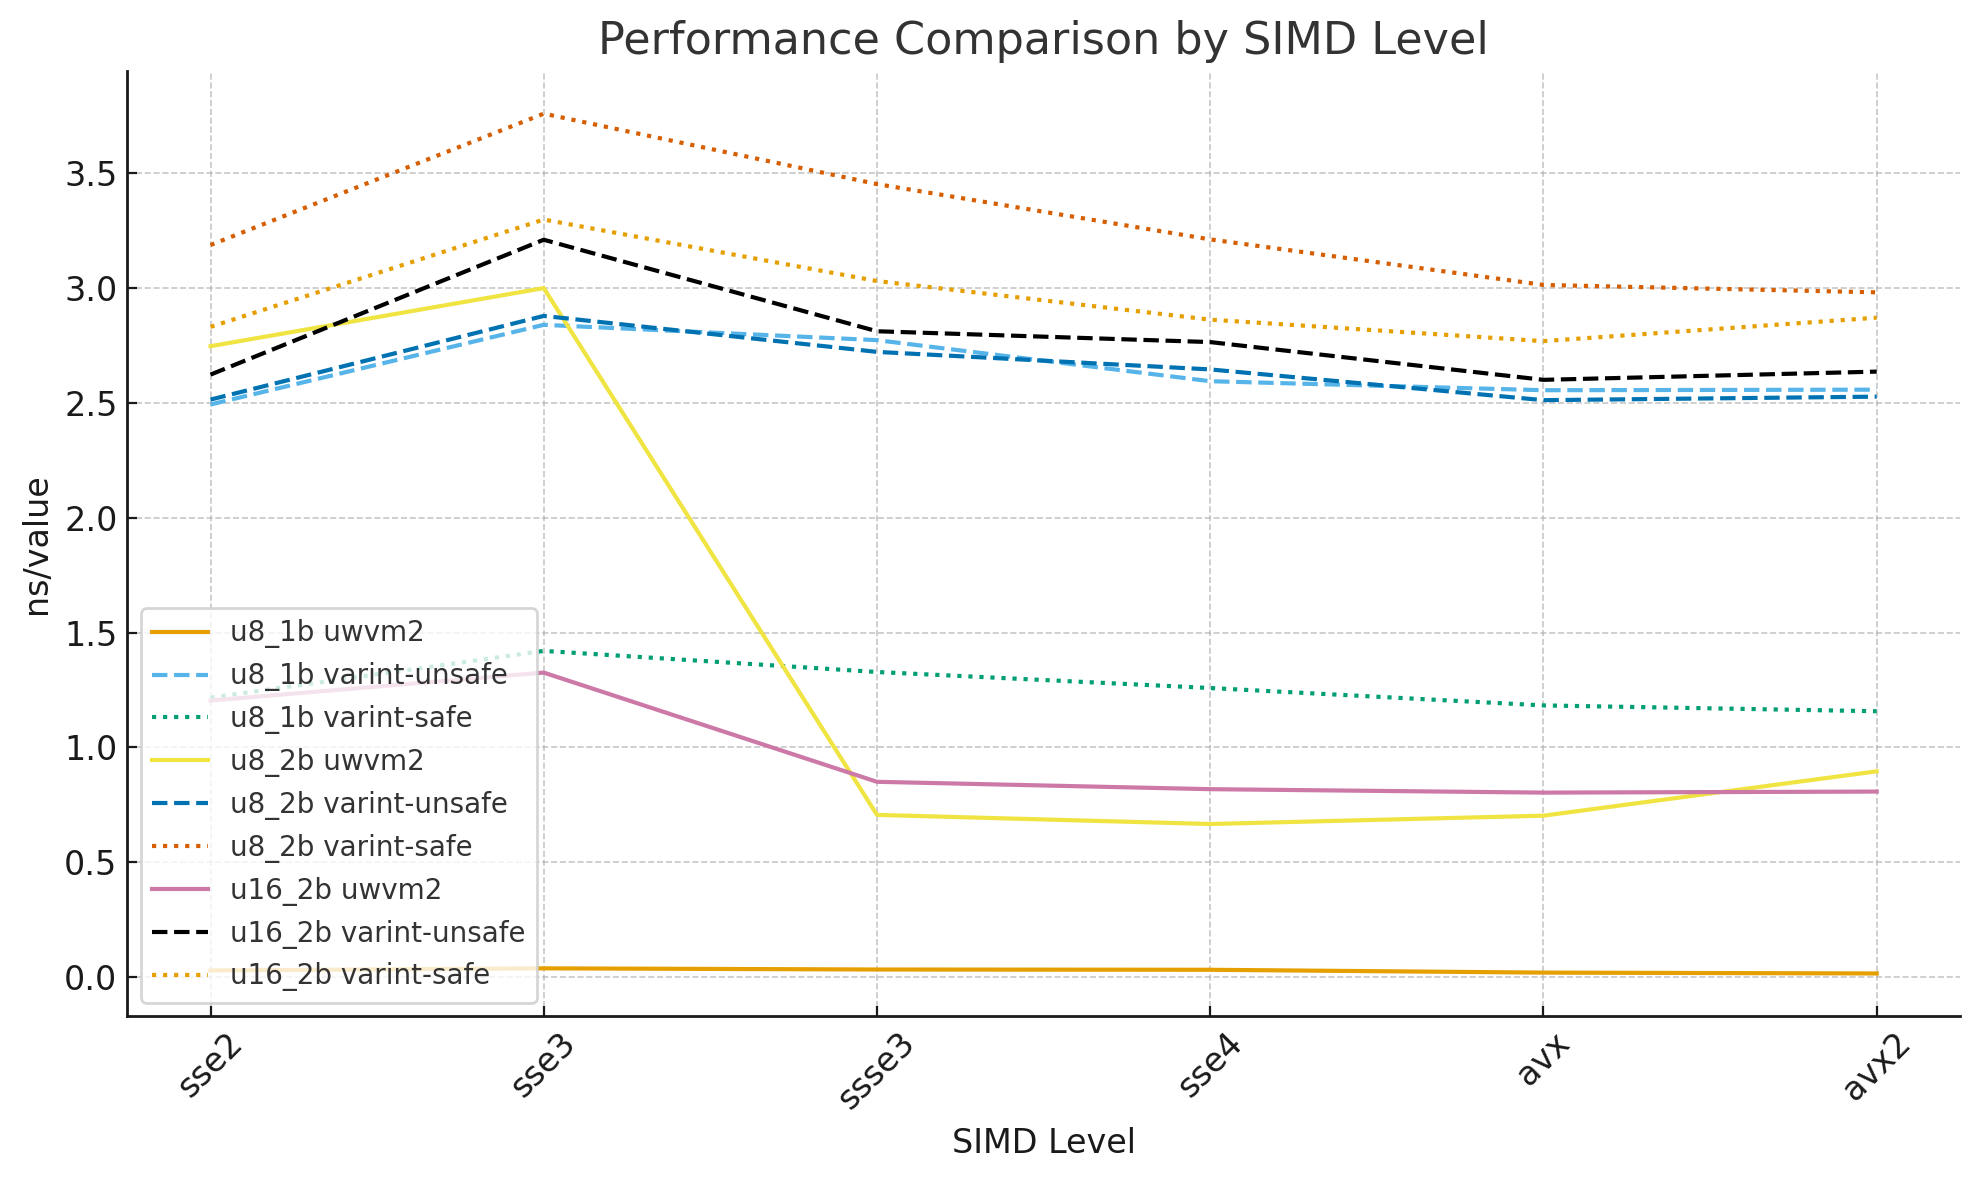
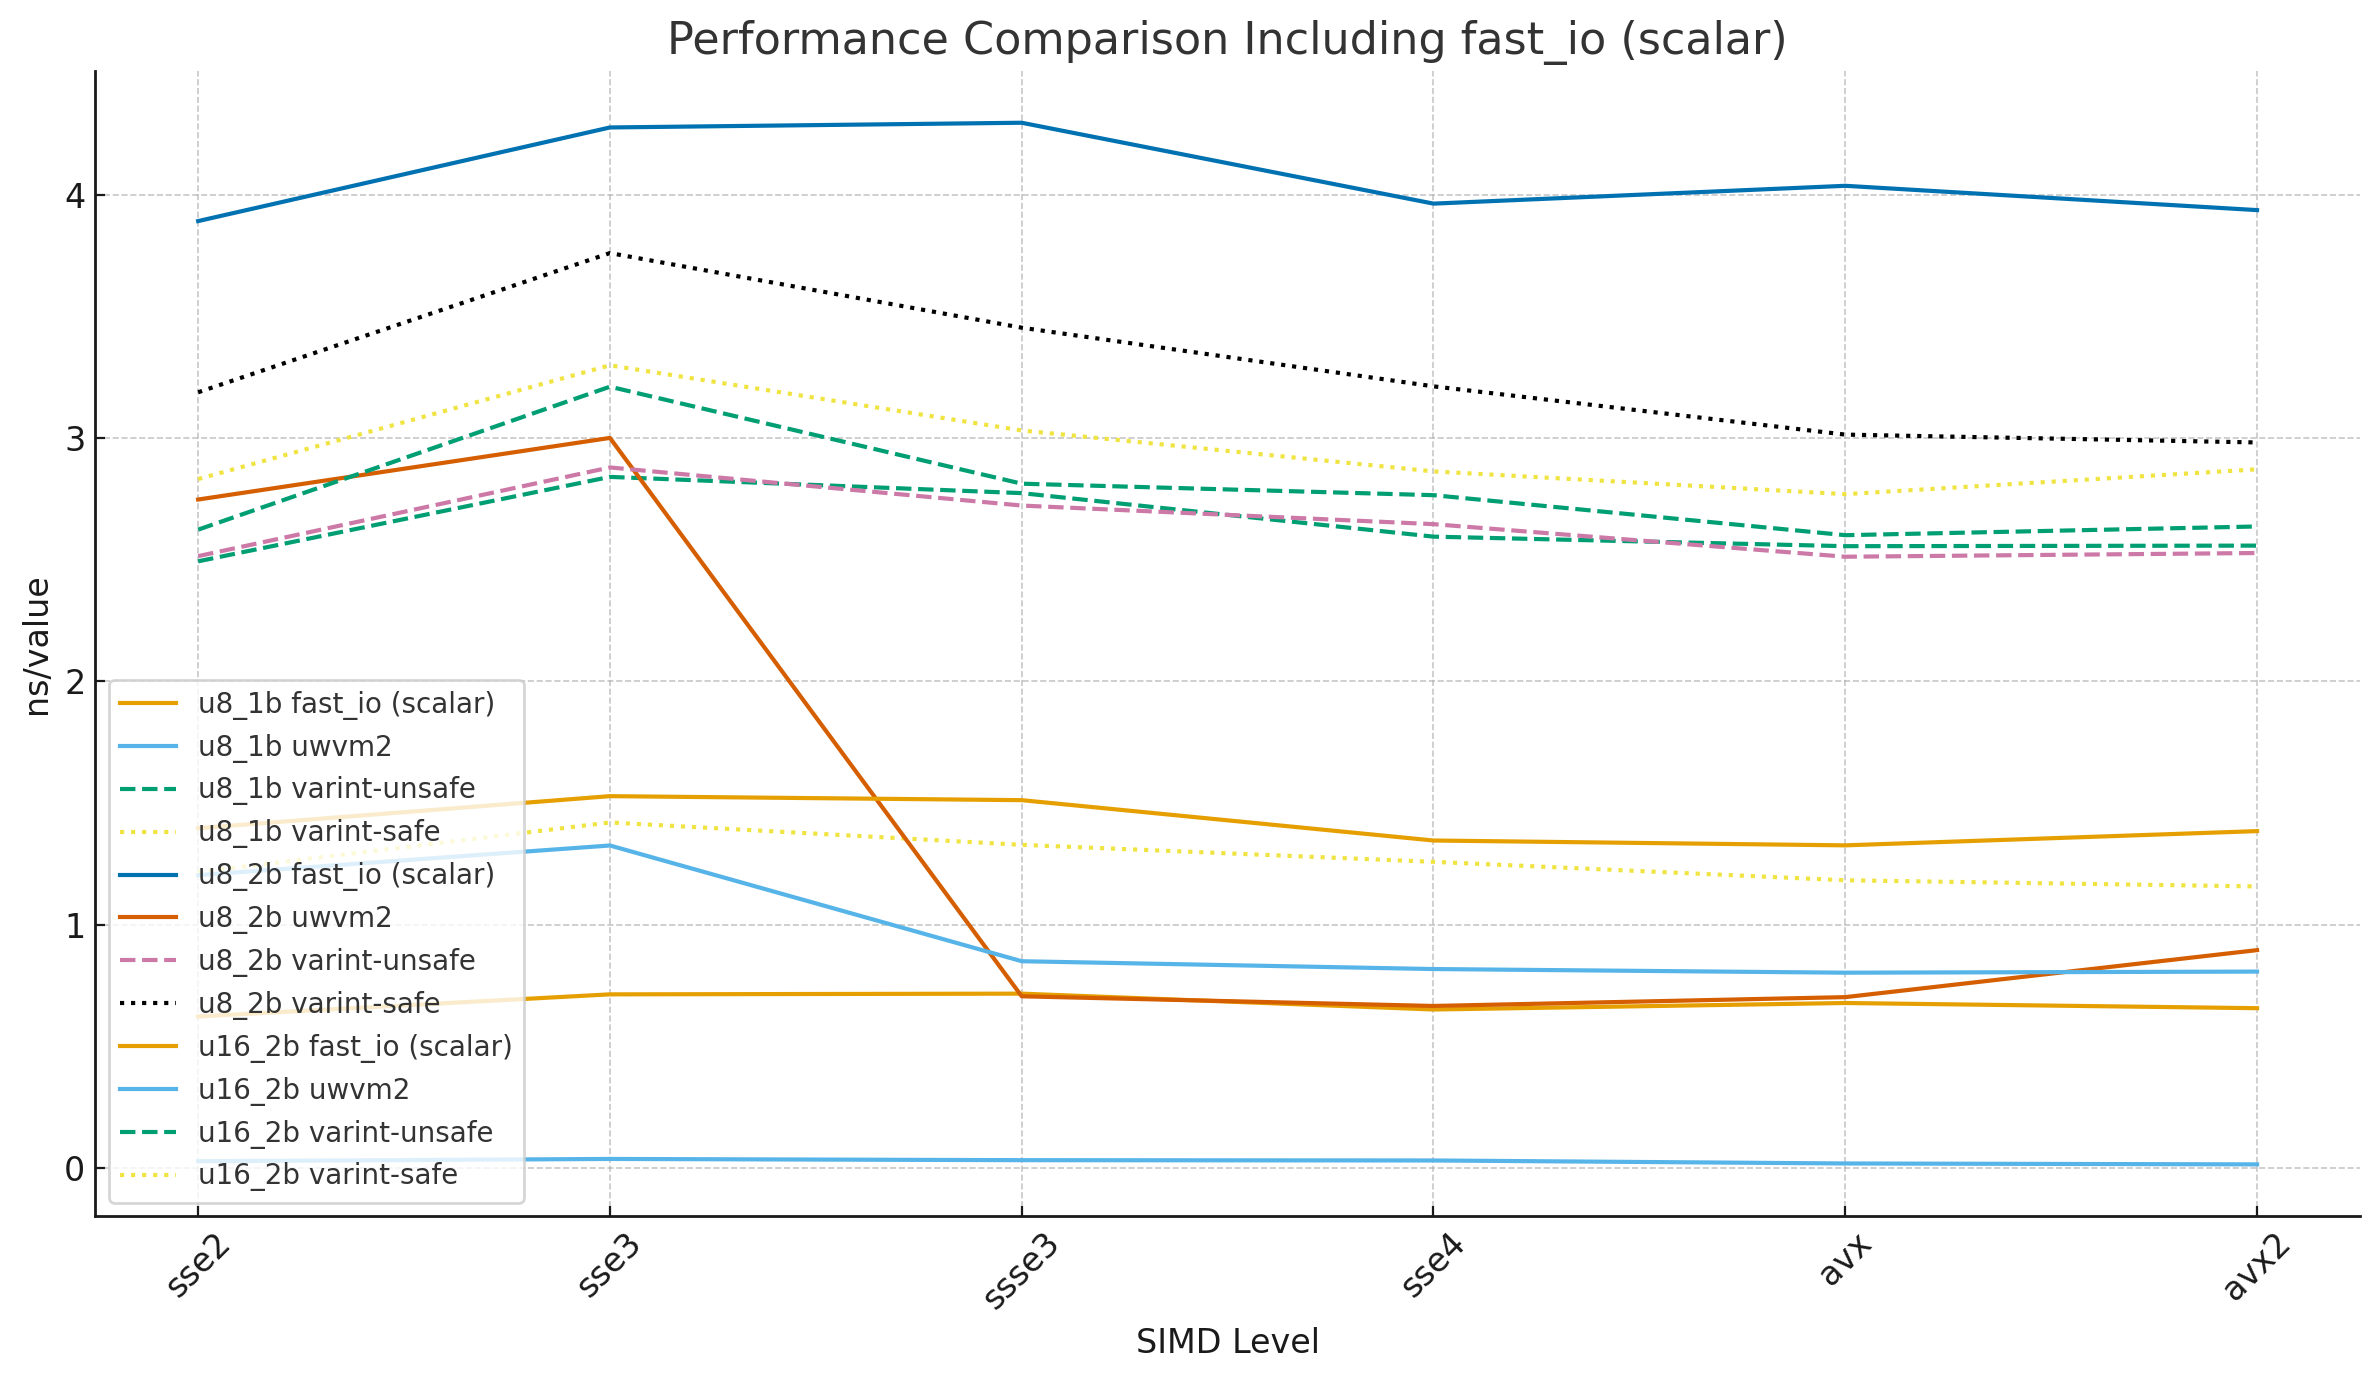
Update benchmark documentation and output image for SIMD performance comparison
- Revised the performance comparison table to include both scalar and SIMD execution times for `uwvm2` and `varint-simd`.
- Updated the description to clarify the significance of the ratio column and the benchmarking methodology.
- Replaced the output image to reflect the latest benchmark results.

diff --git a/benchmark/0002.parser/0001.function_section/readme.md b/benchmark/0002.parser/0001.function_section/readme.md
@@ -239,29 +239,29 @@ The `u16_2b` scenario should thus be interpreted as:
 
 This section compiles the per-value execution times (ns/value) output by the Lua script `compare_varint_simd.lua` when explicitly setting C++ and Rust compilation parameters for different `UWVM2_SIMD_LEVEL` (SSE2, SSE3, SSSE3, SSE4, AVX, AVX2) on a fixed host.
 
-All time units are ns/value, where lower values indicate faster performance; the ratio column represents `uwvm2 / varint-simd (unsafe)`, with values below 1 indicating uwvm2 is faster.
+All time units are ns/value, where lower values indicate faster performance. Both the uwvm2 scalar baseline and SIMD implementation are shown; the ratio column represents `uwvm2 SIMD / varint-simd (unsafe)`, with values below 1 indicating uwvm2 SIMD is faster.
 
-| UWVM2_SIMD_LEVEL | Scenario | uwvm2 ns/value | varint-simd (unsafe) ns/value | ratio (uwvm2/unsafe) | varint-simd (safe) ns/value |
-|------------------|----------|----------------|--------------------------------|-----------------------|-----------------------------|
-| sse2             | u8_1b    | 0.028107       | ≈ 2.493716                     | ≈ 0.011               | ≈ 1.216680                  |
-| sse2             | u8_2b    | 2.747664       | ≈ 2.515034                     | ≈ 1.092               | ≈ 3.188452                  |
-| sse2             | u16_2b   | 1.204023       | ≈ 2.623844                     | ≈ 0.459               | ≈ 2.831848                  |
-| sse3             | u8_1b    | 0.037465       | ≈ 2.840755                     | ≈ 0.013               | ≈ 1.420337                  |
-| sse3             | u8_2b    | 3.000886       | ≈ 2.879563                     | ≈ 1.042               | ≈ 3.760658                  |
-| sse3             | u16_2b   | 1.325757       | ≈ 3.211448                     | ≈ 0.413               | ≈ 3.299425                  |
-| ssse3            | u8_1b    | 0.032394       | ≈ 2.773981                     | ≈ 0.012               | ≈ 1.328446                  |
-| ssse3            | u8_2b    | 0.705934       | ≈ 2.722914                     | ≈ 0.259               | ≈ 3.453877                  |
-| ssse3            | u16_2b   | 0.850092       | ≈ 2.812776                     | ≈ 0.302               | ≈ 3.031550                  |
-| sse4             | u8_1b    | 0.031192       | ≈ 2.595154                     | ≈ 0.012               | ≈ 1.258592                  |
-| sse4             | u8_2b    | 0.666224       | ≈ 2.646469                     | ≈ 0.252               | ≈ 3.212863                  |
-| sse4             | u16_2b   | 0.817972       | ≈ 2.765576                     | ≈ 0.296               | ≈ 2.863301                  |
-| avx              | u8_1b    | 0.018877       | ≈ 2.555923                     | ≈ 0.007               | ≈ 1.182833                  |
-| avx              | u8_2b    | 0.702502       | ≈ 2.512577                     | ≈ 0.280               | ≈ 3.014511                  |
-| avx              | u16_2b   | 0.802967       | ≈ 2.601113                     | ≈ 0.309               | ≈ 2.769782                  |
-| avx2             | u8_1b    | 0.015158       | ≈ 2.558267                     | ≈ 0.006               | ≈ 1.157513                  |
-| avx2             | u8_2b    | 0.895701       | ≈ 2.527859                     | ≈ 0.354               | ≈ 2.982243                  |
-| avx2             | u16_2b   | 0.807479       | ≈ 2.636942                     | ≈ 0.306               | ≈ 2.871885                  |
+| UWVM2_SIMD_LEVEL | Scenario | fast_io (uwvm2 scalar) ns/value | uwvm2 ns/value | varint-simd (unsafe) ns/value | ratio (SIMD/unsafe) | varint-simd (safe) ns/value |
+|------------------|----------|------------------------|---------------------|--------------------------------|----------------------|-----------------------------|
+| sse2             | u8_1b    | 0.623009               | 0.028107            | ≈ 2.493716                     | ≈ 0.011              | ≈ 1.216680                  |
+| sse2             | u8_2b    | 3.892114               | 2.747664            | ≈ 2.515034                     | ≈ 1.092              | ≈ 3.188452                  |
+| sse2             | u16_2b   | 1.396773               | 1.204023            | ≈ 2.623844                     | ≈ 0.459              | ≈ 2.831848                  |
+| sse3             | u8_1b    | 0.713941               | 0.037465            | ≈ 2.840755                     | ≈ 0.013              | ≈ 1.420337                  |
+| sse3             | u8_2b    | 4.276907               | 3.000886            | ≈ 2.879563                     | ≈ 1.042              | ≈ 3.760658                  |
+| sse3             | u16_2b   | 1.528552               | 1.325757            | ≈ 3.211448                     | ≈ 0.413              | ≈ 3.299425                  |
+| ssse3            | u8_1b    | 0.716849               | 0.032394            | ≈ 2.773981                     | ≈ 0.012              | ≈ 1.328446                  |
+| ssse3            | u8_2b    | 4.296264               | 0.705934            | ≈ 2.722914                     | ≈ 0.259              | ≈ 3.453877                  |
+| ssse3            | u16_2b   | 1.512101               | 0.850092            | ≈ 2.812776                     | ≈ 0.302              | ≈ 3.031550                  |
+| sse4             | u8_1b    | 0.651683               | 0.031192            | ≈ 2.595154                     | ≈ 0.012              | ≈ 1.258592                  |
+| sse4             | u8_2b    | 3.963856               | 0.666224            | ≈ 2.646469                     | ≈ 0.252              | ≈ 3.212863                  |
+| sse4             | u16_2b   | 1.346232               | 0.817972            | ≈ 2.765576                     | ≈ 0.296              | ≈ 2.863301                  |
+| avx              | u8_1b    | 0.678372               | 0.018877            | ≈ 2.555923                     | ≈ 0.007              | ≈ 1.182833                  |
+| avx              | u8_2b    | 4.037088               | 0.702502            | ≈ 2.512577                     | ≈ 0.280              | ≈ 3.014511                  |
+| avx              | u16_2b   | 1.326338               | 0.802967            | ≈ 2.601113                     | ≈ 0.309              | ≈ 2.769782                  |
+| avx2             | u8_1b    | 0.657058               | 0.015158            | ≈ 2.558267                     | ≈ 0.006              | ≈ 1.157513                  |
+| avx2             | u8_2b    | 3.937200               | 0.895701            | ≈ 2.527859                     | ≈ 0.354              | ≈ 2.982243                  |
+| avx2             | u16_2b   | 1.384856               | 0.807479            | ≈ 2.636942                     | ≈ 0.306              | ≈ 2.871885                  |
 
-The above data is derived from a single baseline run and is primarily intended for comparing the relative performance of uwvm2 and varint-simd across different SIMD levels, rather than serving as absolute performance metrics across machines.
+The above data is derived from a single baseline run and is primarily intended for comparing the relative performance of uwvm2 and varint-simd (both scalar and SIMD paths) across different SIMD levels, rather than serving as absolute performance metrics across machines.
 
 ![benchmark](output.png)
